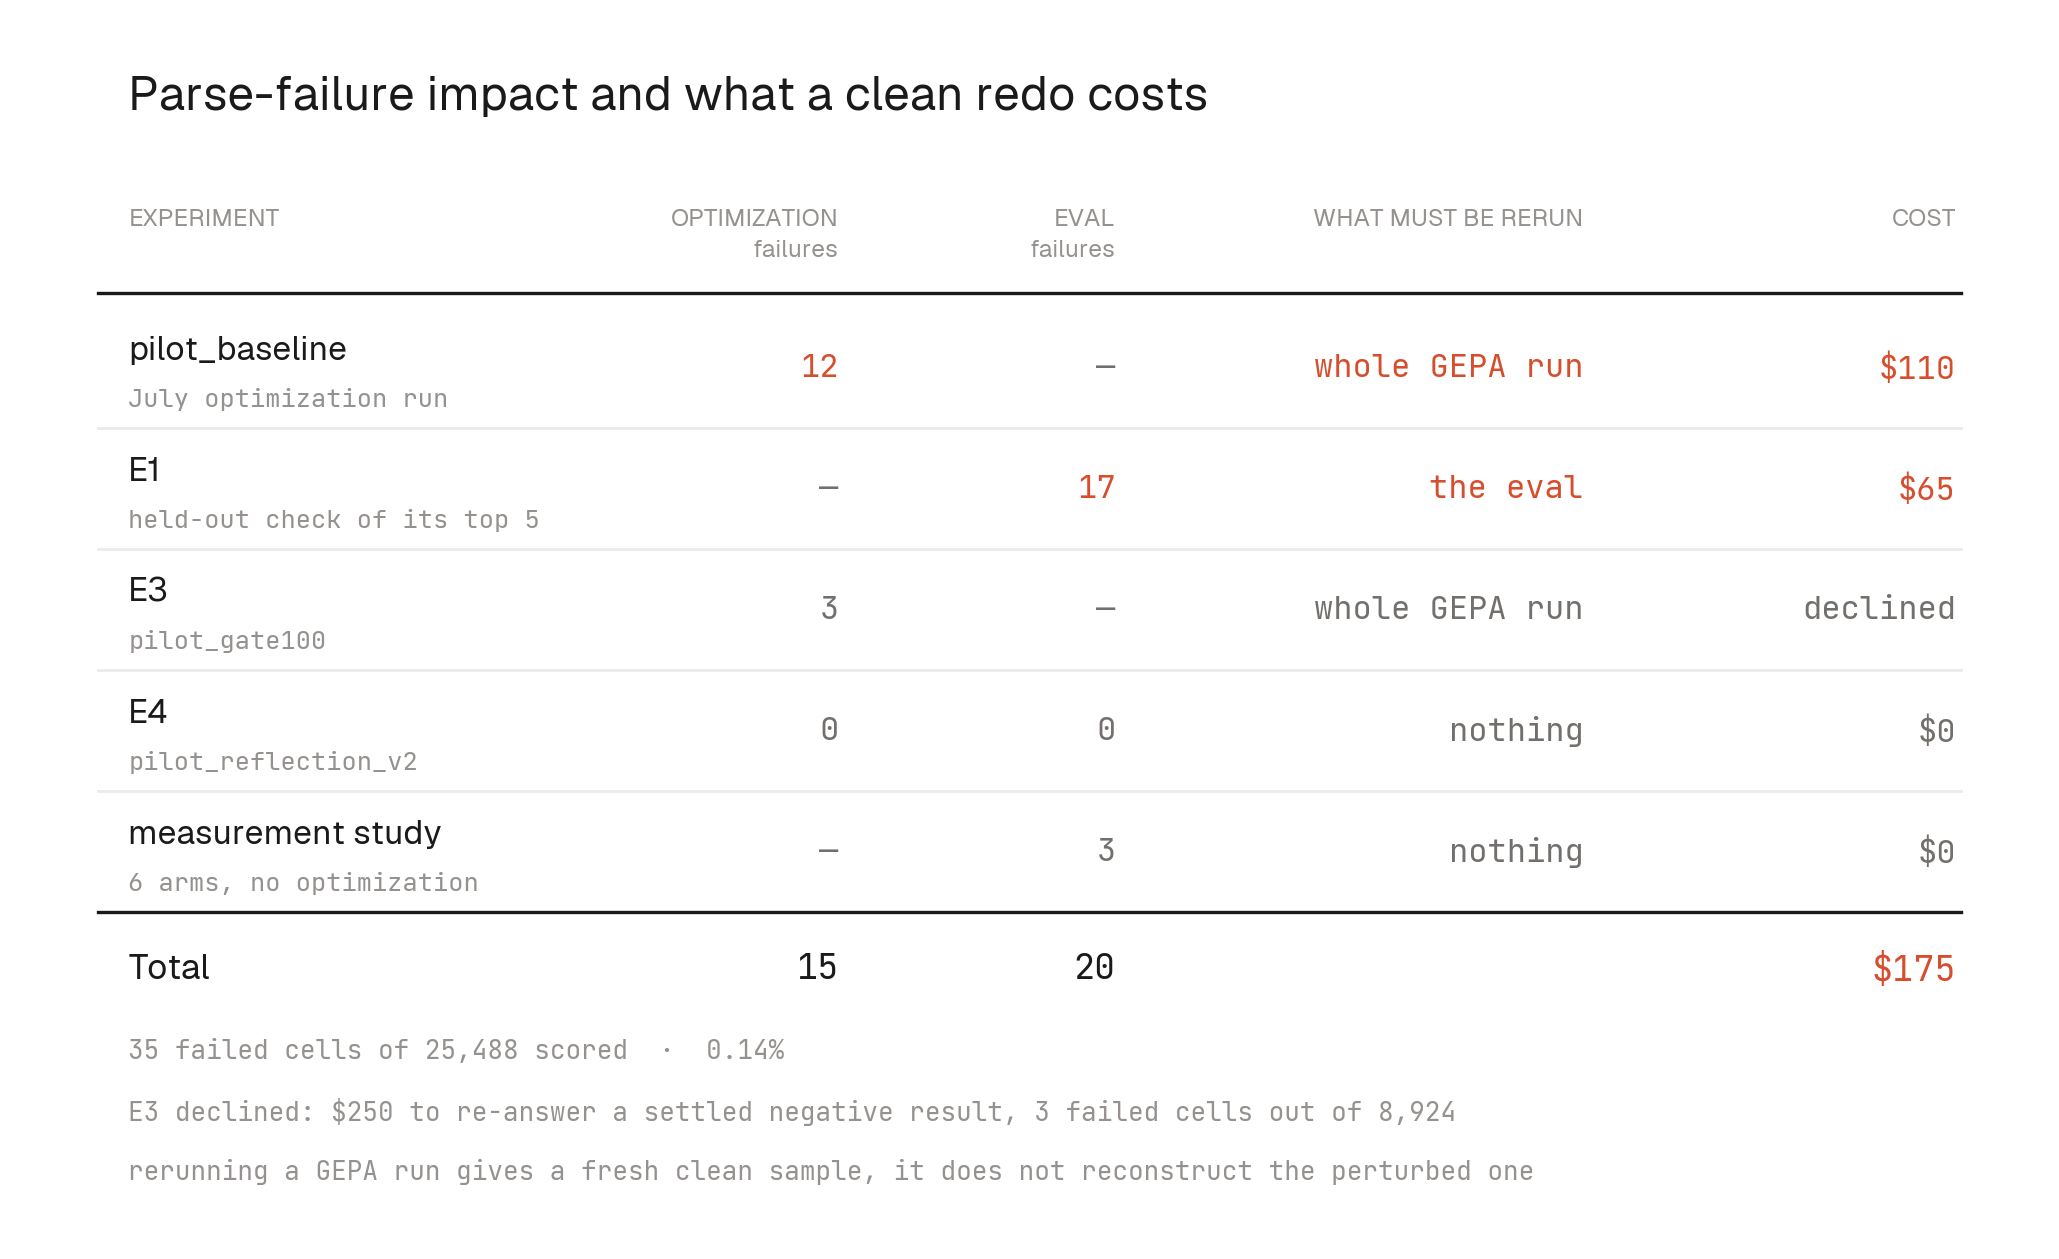
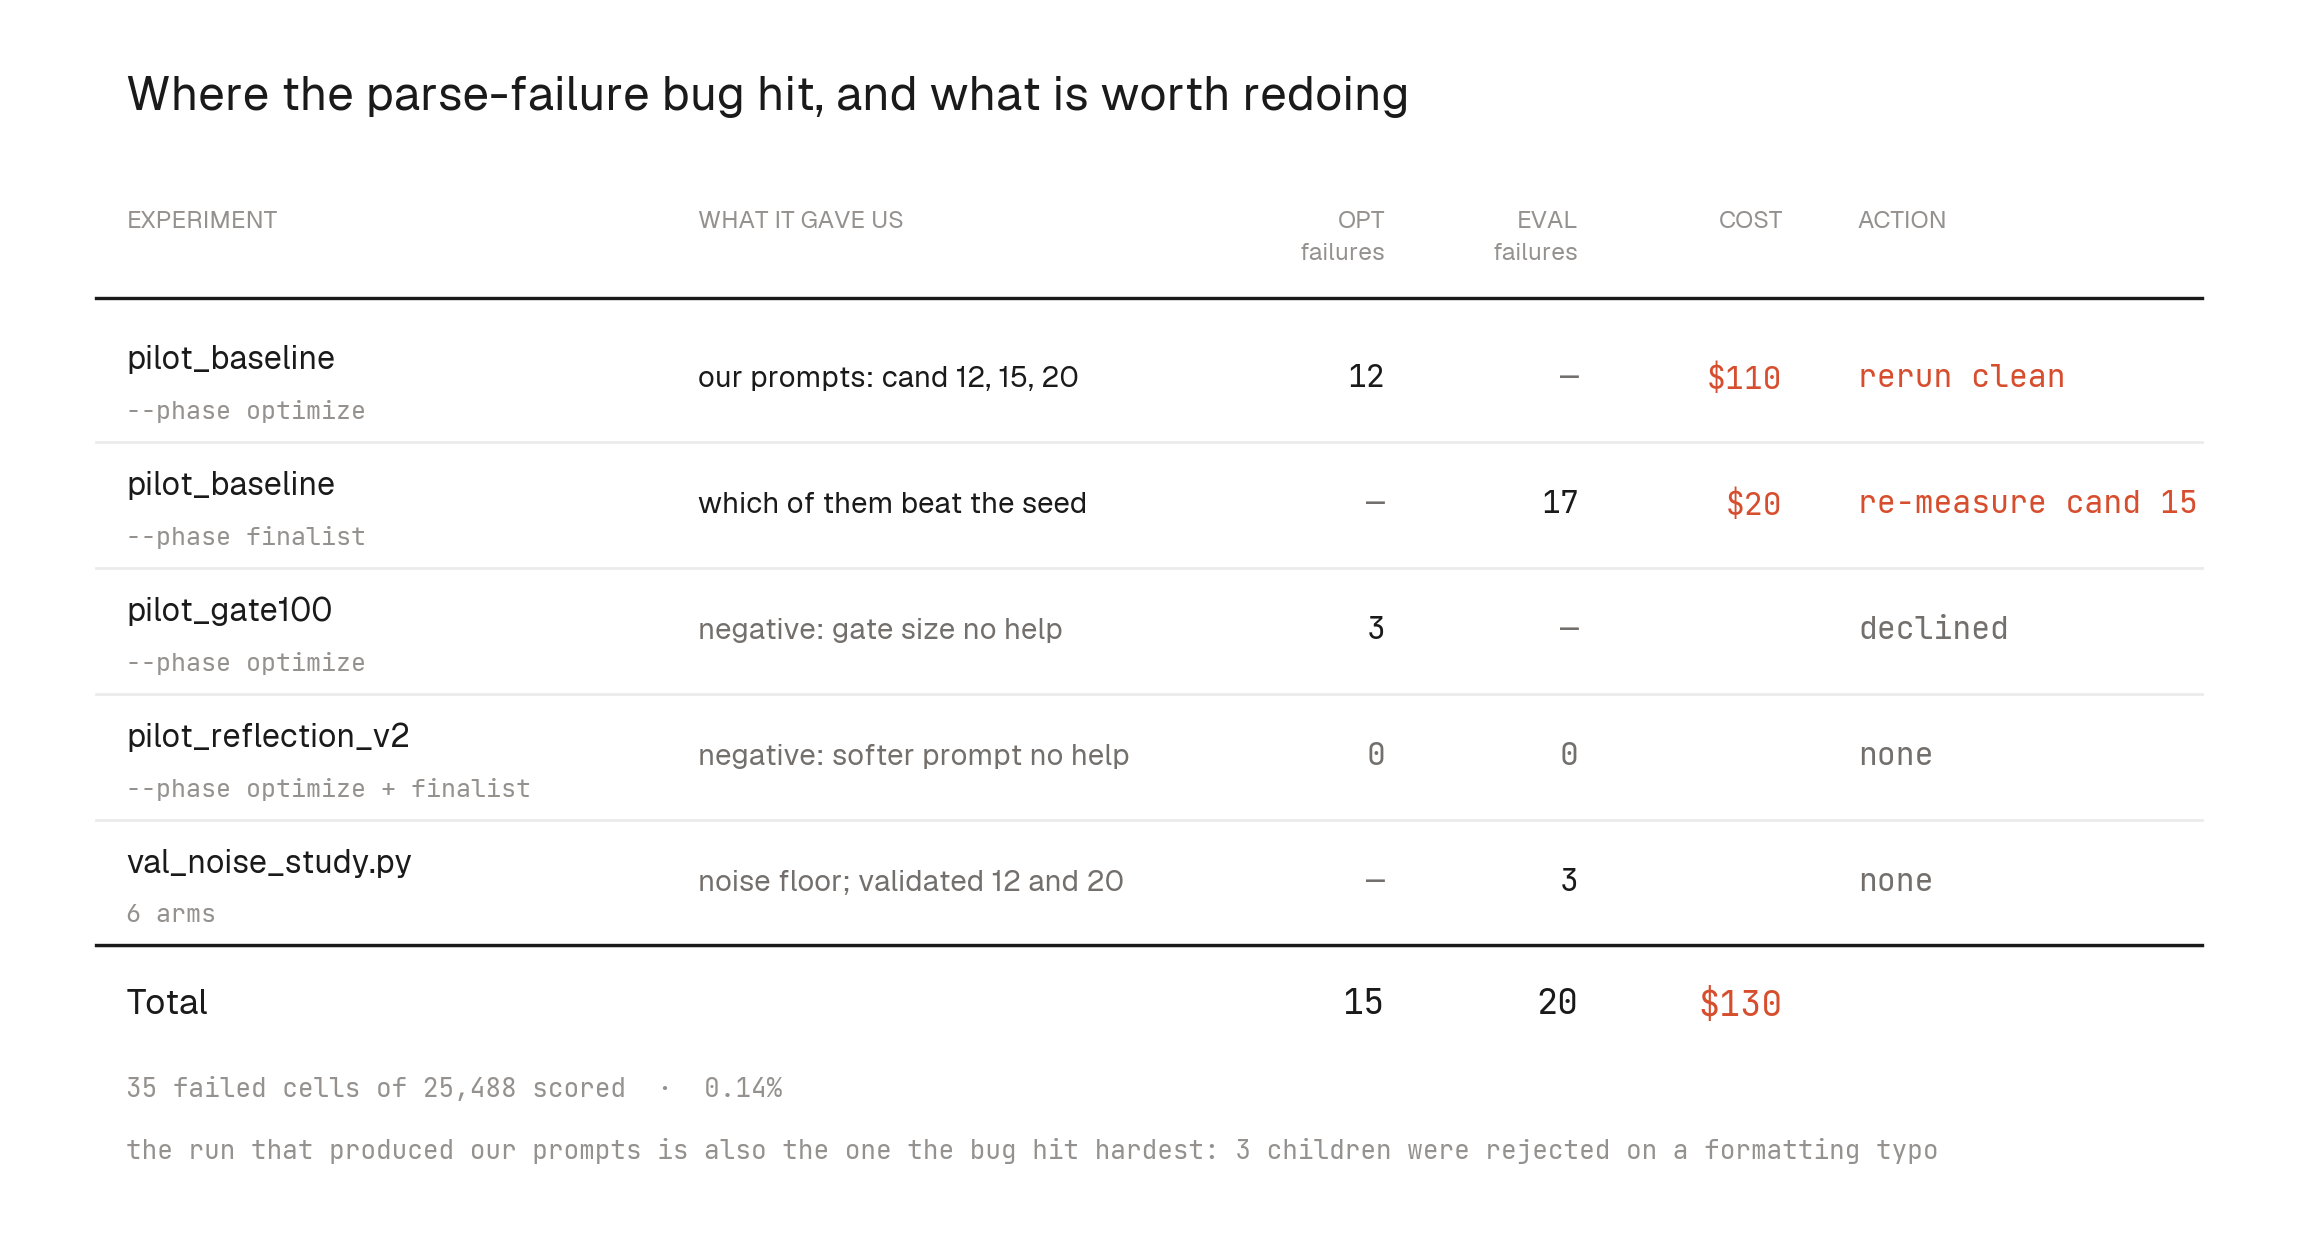
fig8: name runs by config, add what-each-gave-us column, focus action on the prompt-producing run

diff --git a/intra_benchmark_calibration/experiments/III_gepa_optimization/summary/parse_failure_audit_table.md b/intra_benchmark_calibration/experiments/III_gepa_optimization/summary/parse_failure_audit_table.md
@@ -36,11 +36,21 @@ re-measurement agree.
 
 ![parse-failure state](fig8_parse_failure_state.png)
 
-`not fixable` on the July run means a re-run cannot correct it: at temperature
-1.0 a re-run is a different sample, so it cannot separate the fix from
-run-to-run variance. Its three flipped rejections (iters 5, 11, 21) stay a
-documented caveat; its outputs (cands 12, 15, 20) are validated by
-re-measurement instead.
+Runs are named by their config, which is what you type to reproduce them
+(`configs/<name>.yaml` in the gepa repo). The earlier E1/E3/E4 labels are
+retired: they were ad hoc and had a gap.
+
+**The decisive row is the first one.** `pilot_baseline` is the only
+experiment that produced a deliverable, the prompts we actually use; every
+other run returned a negative result or a measurement. It is also the run
+the bug hit hardest, losing three children to formatting typos. So the one
+optimization worth re-running clean is that one, and not because a re-run
+repairs July (at temperature 1.0 it is a fresh sample), but because the
+prompt-producing experiment ran handicapped and a clean version can only do
+better.
+
+`pilot_gate100` is declined: it answered its question with a negative, and
+re-running it would cost more than every other action combined.
 
 ## The single most consequential failure
 
